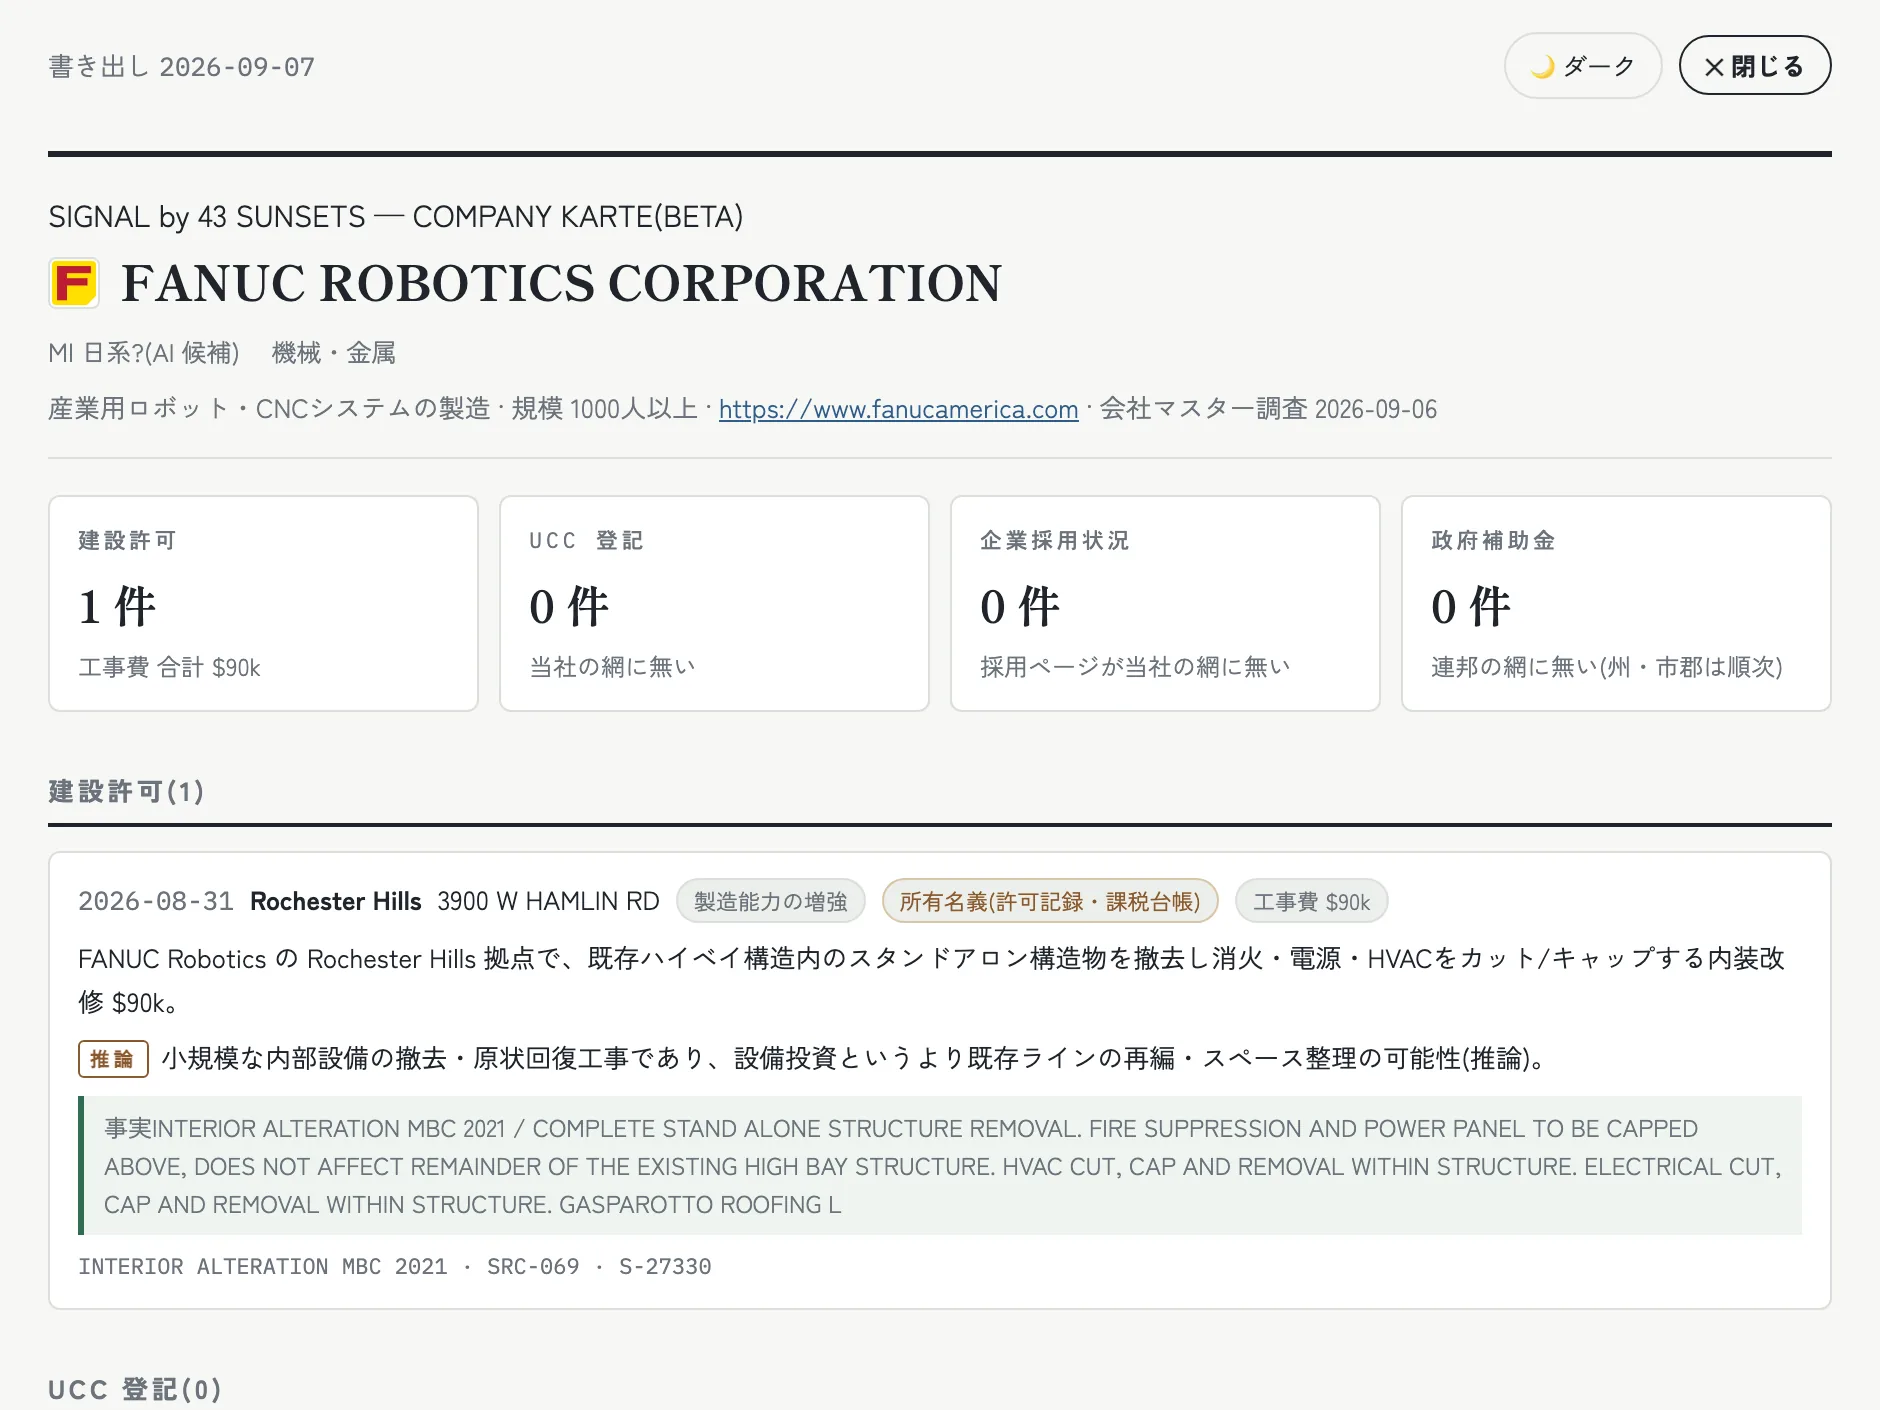
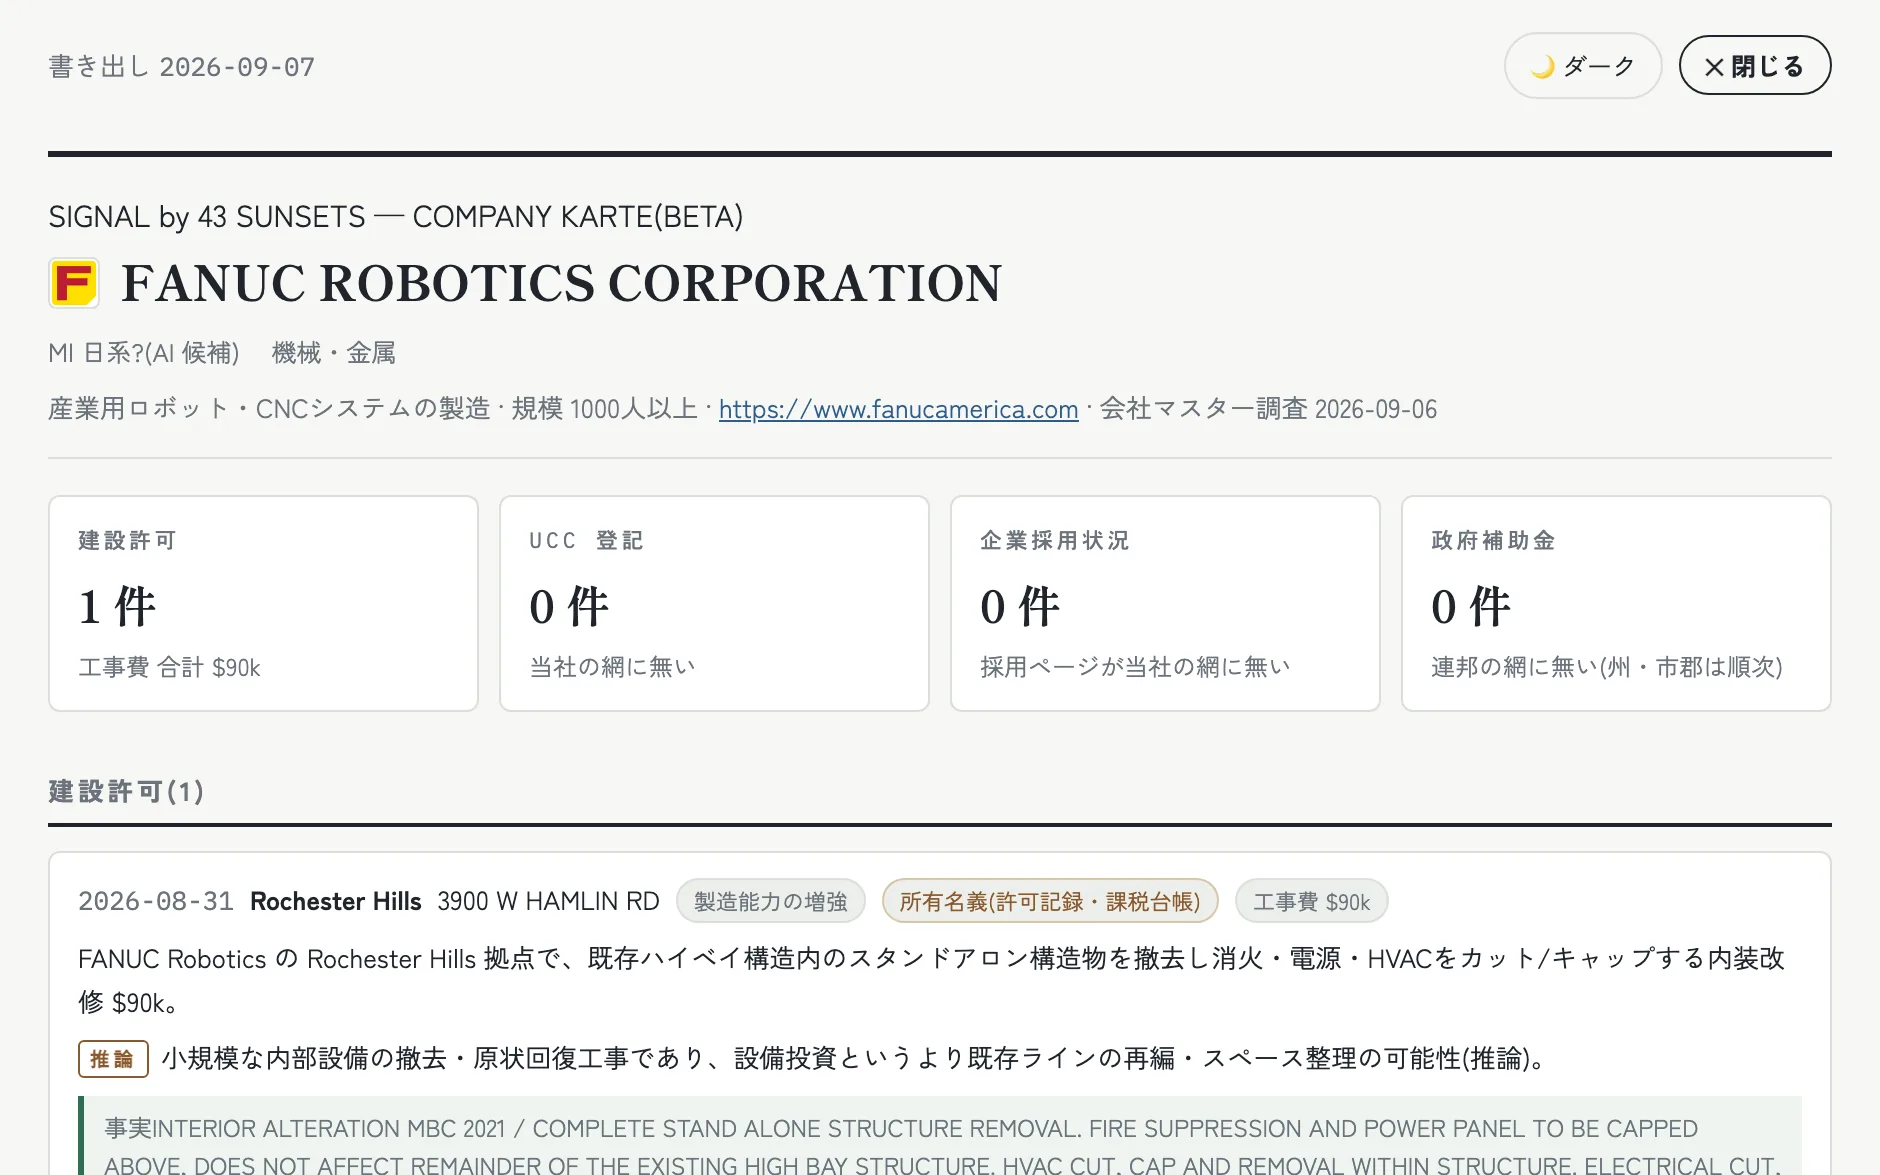
preview bridge: Signal 節 = ロゴ+『4 つのアンテナで日付で積み上げる』+同比率のスクショ 2 枚・動く数字を外す

diff --git a/preview/bridge/index.html b/preview/bridge/index.html
@@ -64,7 +64,9 @@ h2{font-family:var(--serif);font-weight:800;font-size:clamp(26px,2.8vw,36px);lin
 .note{margin:28px 0 0;font-size:14px;color:var(--sub);max-width:720px}
 .note b{color:var(--ink);font-weight:600}
 /* Signal shots */
-.shots{display:grid;grid-template-columns:1.15fr 1fr;gap:32px;align-items:start}
+.shots{display:grid;grid-template-columns:1fr 1fr;gap:32px;align-items:start}
+.siglogo{display:block;width:230px;margin:0 0 18px}
+.siglogo svg{display:block;width:100%;height:auto;overflow:visible}
 .shot{margin:0}
 .shot img{display:block;width:100%;height:auto;border:1px solid var(--line);border-radius:6px;box-shadow:0 18px 50px -24px rgba(20,24,29,.35)}
 .shot figcaption{margin:12px 0 0;font-family:var(--mono);font-size:12px;letter-spacing:.06em;color:var(--sub)}
@@ -156,15 +158,16 @@ footer a{color:var(--sub);text-decoration:none;margin-right:20px} footer a:hover
     <div class="sec-h">
       <div class="num">01 — いま提供しているもの</div>
       <div>
-        <h2>Signal — 次に動く会社が、先に分かる。</h2>
-        <p>中西部 5 州の建設許可・設備の担保登記・補助金・求人を毎日読み、「どの会社が、何を始めたか」を一覧にします。会社ごとの一枚(企業カルテ)で、事実と、そこから考えられる営業のヒントを分けて示します。無料・登録なし。</p>
+        <a class="siglogo" href="/signal/" aria-label="Signal by 43 Sunsets"><svg viewBox="6 8 182 62" role="img"><title>Signal by 43 Sunsets</title><g fill="none" stroke-linecap="round" stroke-width="3.2"><path d="M14 40 A22 22 0 0 1 58 40" stroke="var(--accent)"/><path d="M23 40 A13 13 0 0 1 49 40" stroke="var(--accent)" opacity=".62"/><path d="M31 40 A5 5 0 0 1 41 40" stroke="var(--accent)" opacity=".38"/></g><path d="M10 46 H172" stroke="var(--ink)" stroke-width="3.2" stroke-linecap="round" fill="none"/><text x="70" y="41" font-family="Shippori Mincho, serif" font-weight="700" font-size="36" fill="var(--ink)">Signal</text><text x="172" y="64" text-anchor="end" font-family="Shippori Mincho, serif" font-weight="600" font-size="11.5" letter-spacing="1.4" fill="var(--sub)">by 43 Sunsets</text></svg></a>
+        <h2>会社の動きを、4 つのアンテナで毎日追う。</h2>
+        <p>建設許可、設備の担保登記、政府補助金、求人。この 4 つの公開情報をアンテナにして、中西部 5 州の会社の動きを毎日拾い、日付で積み上げます。一社ごとに「いつ、何を始めたか」が時系列でたまっていくので、次に動く会社が先に分かります。無料・登録なし。</p>
       </div>
     </div>
     <div class="shots">
-      <figure class="shot"><img src="/assets/shots/shot-permits.webp" alt="Signal の建設許可の一覧画面" loading="lazy"><figcaption>建設許可の一覧 — 州・業種・投資の種類で絞り込み</figcaption></figure>
-      <figure class="shot"><img src="/assets/shots/shot-karte.webp" alt="Signal の企業カルテ画面" loading="lazy"><figcaption>企業カルテ — 一社の動きを一枚に、事実と推論を分けて</figcaption></figure>
+      <figure class="shot"><img src="/assets/shots/shot-permits.webp?v=2" alt="Signal の建設許可の一覧画面" loading="lazy"><figcaption>一覧 — 州・業種・投資の種類で絞り込み、新しい動きから</figcaption></figure>
+      <figure class="shot"><img src="/assets/shots/shot-karte.webp?v=2" alt="Signal の企業カルテ画面" loading="lazy"><figcaption>企業カルテ — 一社の動きを日付順に一枚へ。事実と推論は分けて</figcaption></figure>
     </div>
-    <p class="more"><a href="/signal/">Signal を開く →</a><span>建設許可 113 社・担保登記 736 件を毎日更新(2026-09-07 時点)</span></p>
+    <p class="more"><a href="/signal/">Signal を開く →</a></p>
   </div>
 </section>
 
